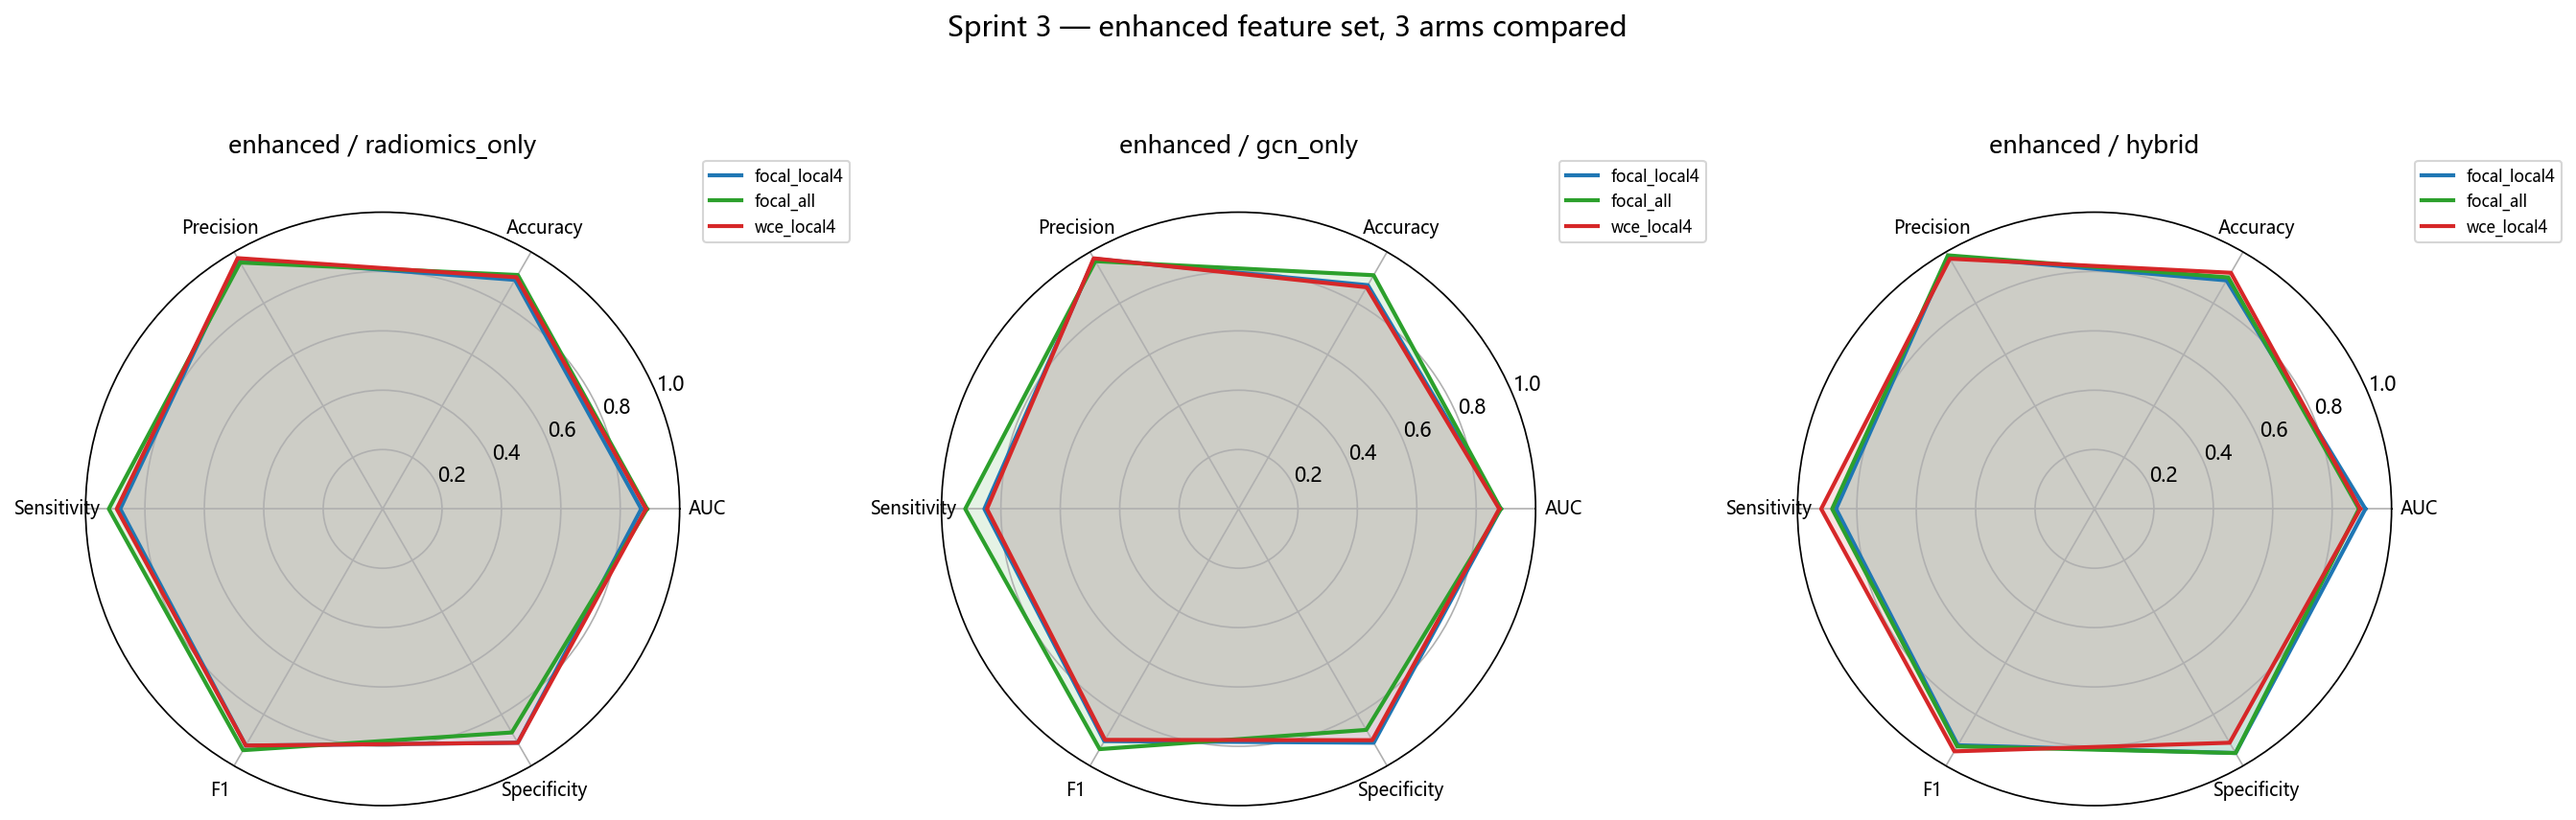
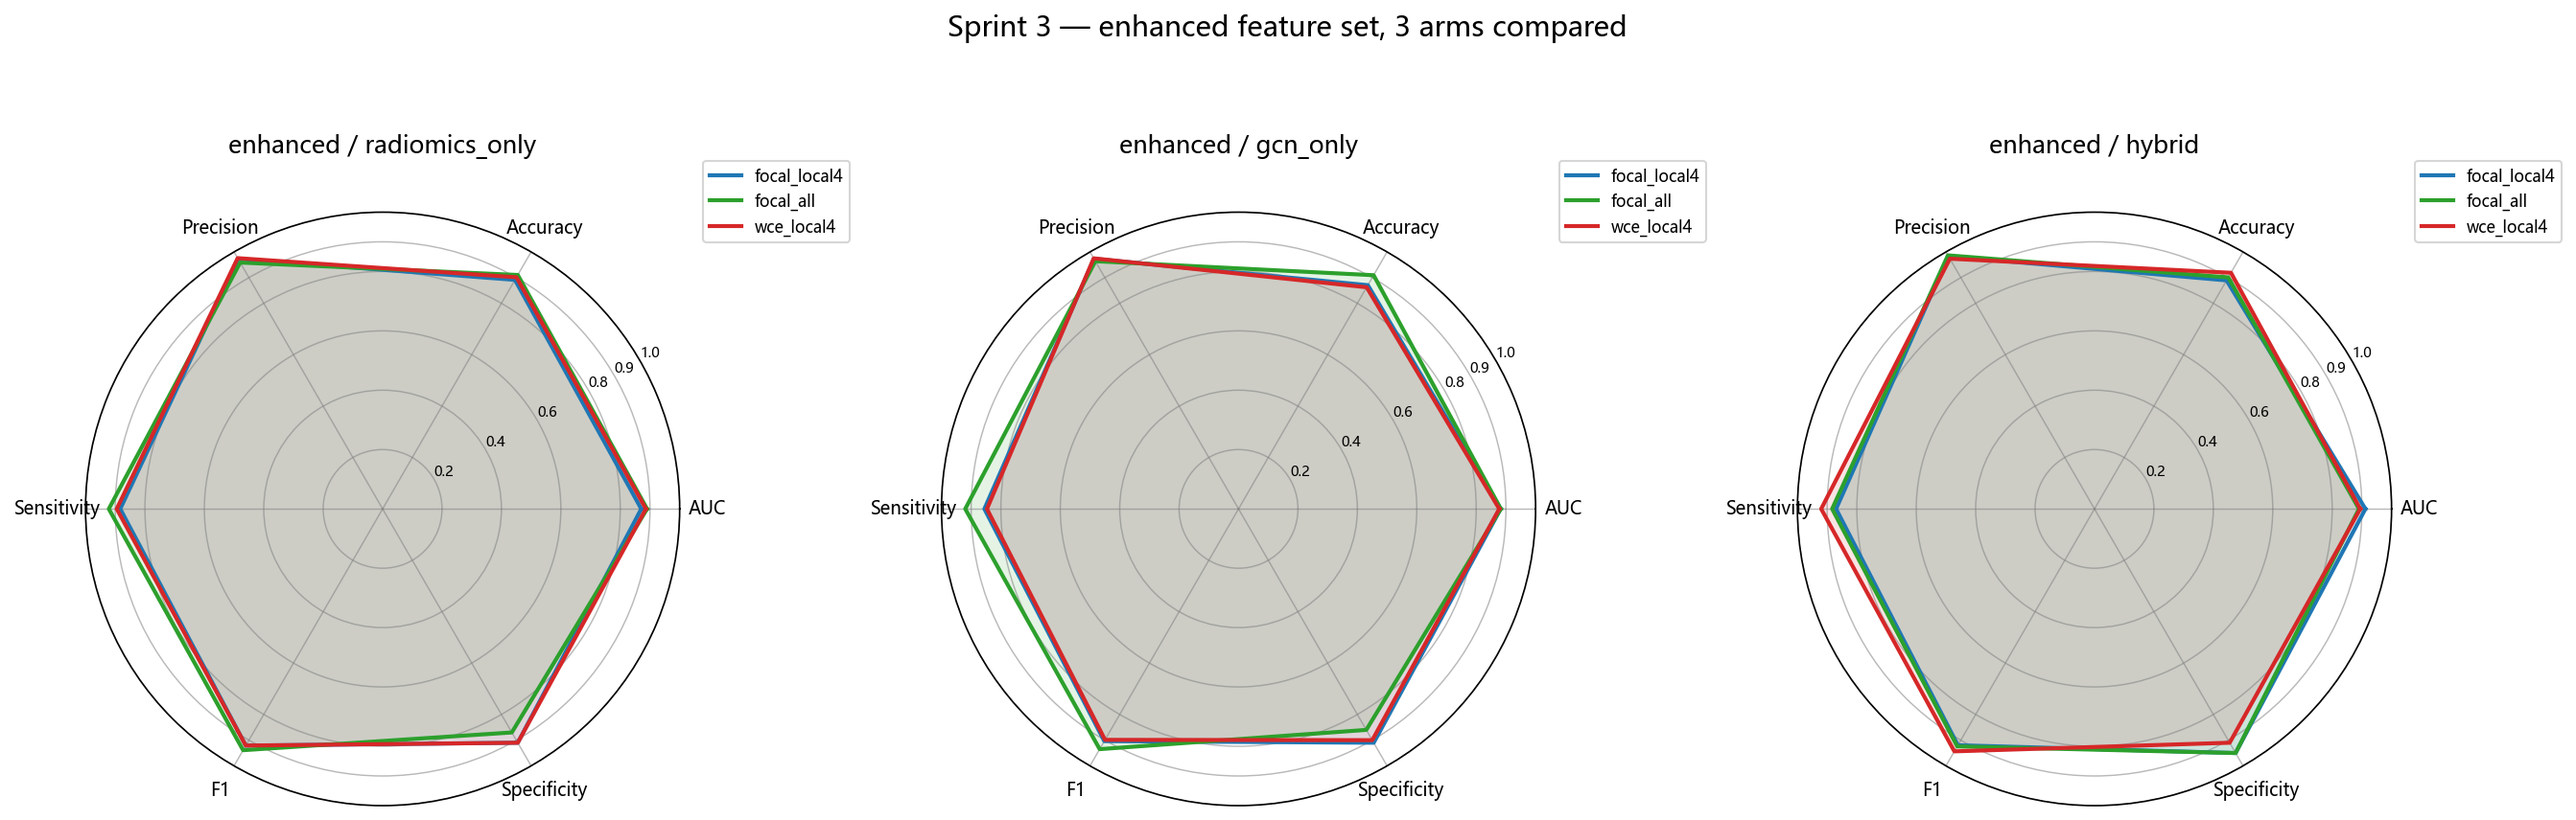
fix(report): add 0.9 ring to arms radar and 0.9 line to bar chart

diff --git a/outputs/sprint3_report.py b/outputs/sprint3_report.py
@@ -86,6 +86,8 @@ def combined_bar(arms_data: dict, sprint2: dict) -> Path:
         vals = [m[k] for k in labels]
         ax.bar(x + (i - (len(series) - 1) / 2) * w, vals, w, label=name, color=color)
     ax.set_xticks(x); ax.set_xticklabels(labels); ax.set_ylim(0, 1.05)
+    ax.set_yticks([0.0, 0.2, 0.4, 0.6, 0.8, 0.9, 1.0])
+    ax.axhline(0.9, color="gray", linewidth=0.8, alpha=0.55, zorder=0)
     ax.set_ylabel("Score")
     ax.set_title("Sprint 3 P0 vs Sprint 2 v2 — enhanced/hybrid across arms "
                  "(all 6 metrics, 5-fold CV mean)")
@@ -111,6 +113,8 @@ def combined_radar(arms_data: dict) -> Path:
             ax.fill(angles, vals, color=palette[arm], alpha=0.12)
         ax.set_xticks(angles[:-1]); ax.set_xticklabels(KEYS, fontsize=9)
         ax.set_ylim(0, 1)
+        ax.set_rgrids([0.2, 0.4, 0.6, 0.8, 0.9, 1.0], angle=30, fontsize=7)
+        ax.grid(True, color="gray", alpha=0.55, linewidth=0.7)
         ax.set_title(f"enhanced / {mode}", y=1.08, fontsize=12)
         ax.legend(loc="upper right", bbox_to_anchor=(1.3, 1.1), fontsize=8)
     fig.suptitle("Sprint 3 — enhanced feature set, 3 arms compared", fontsize=14, y=1.02)
